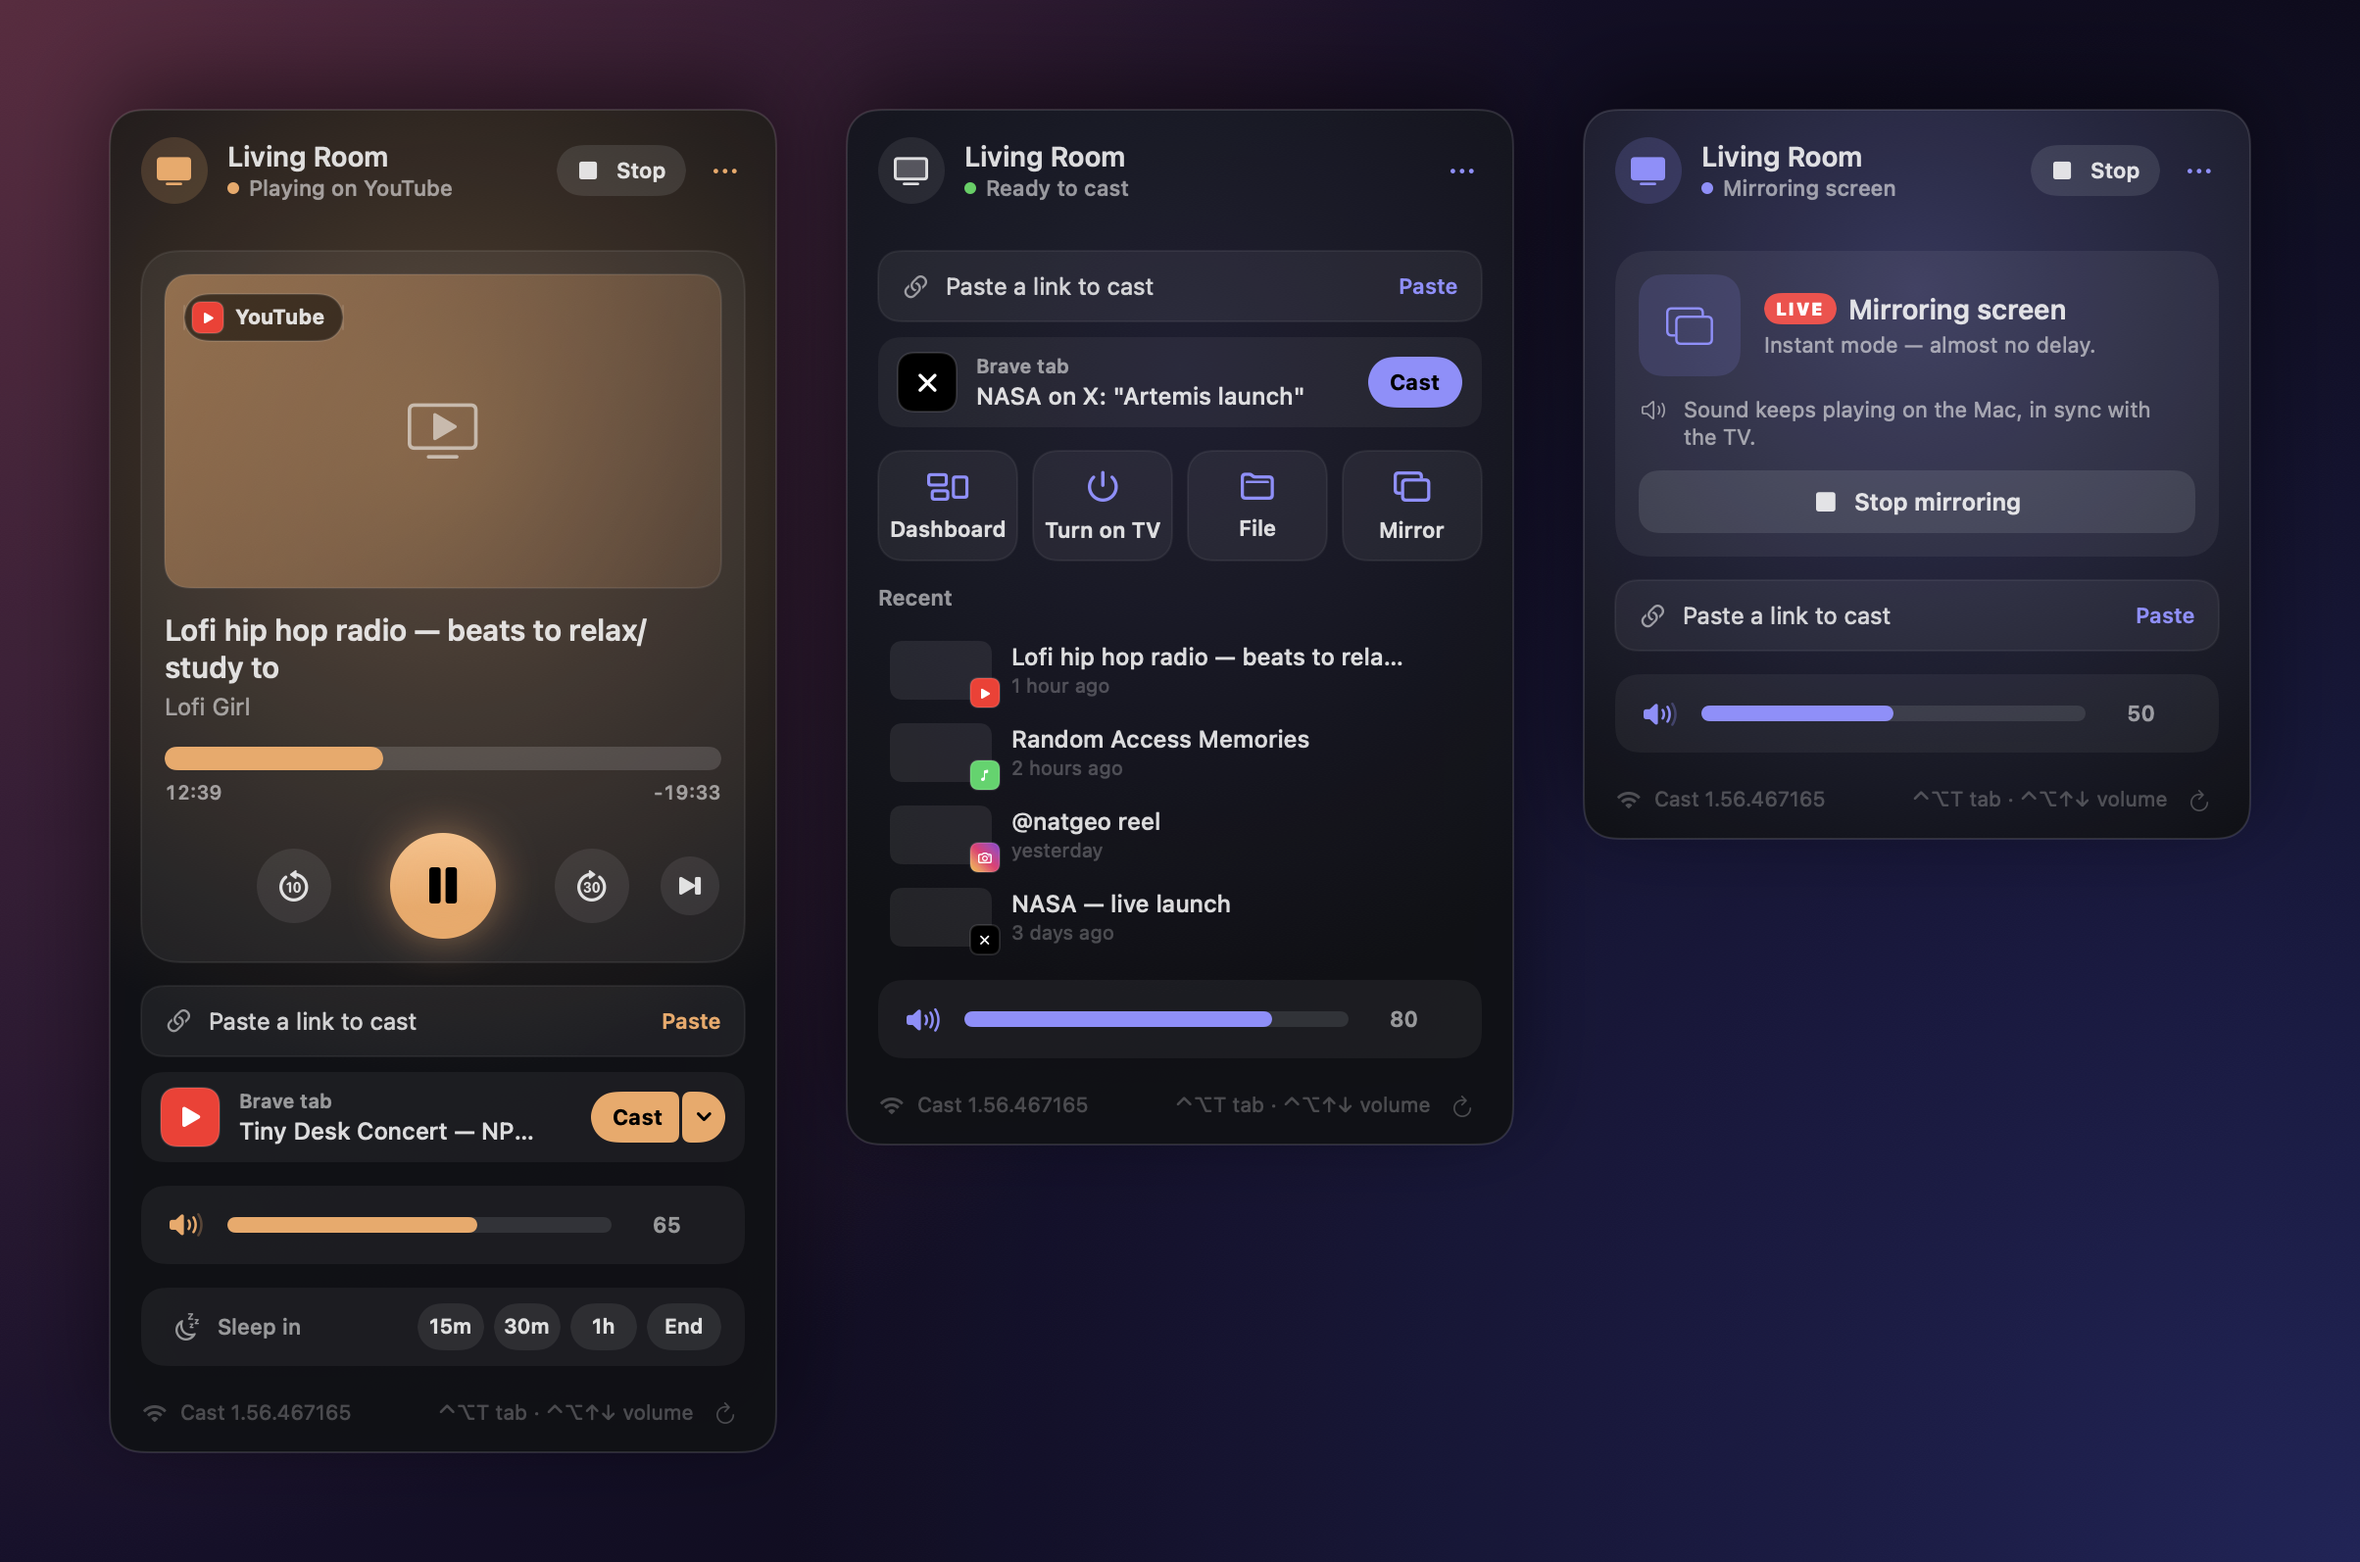
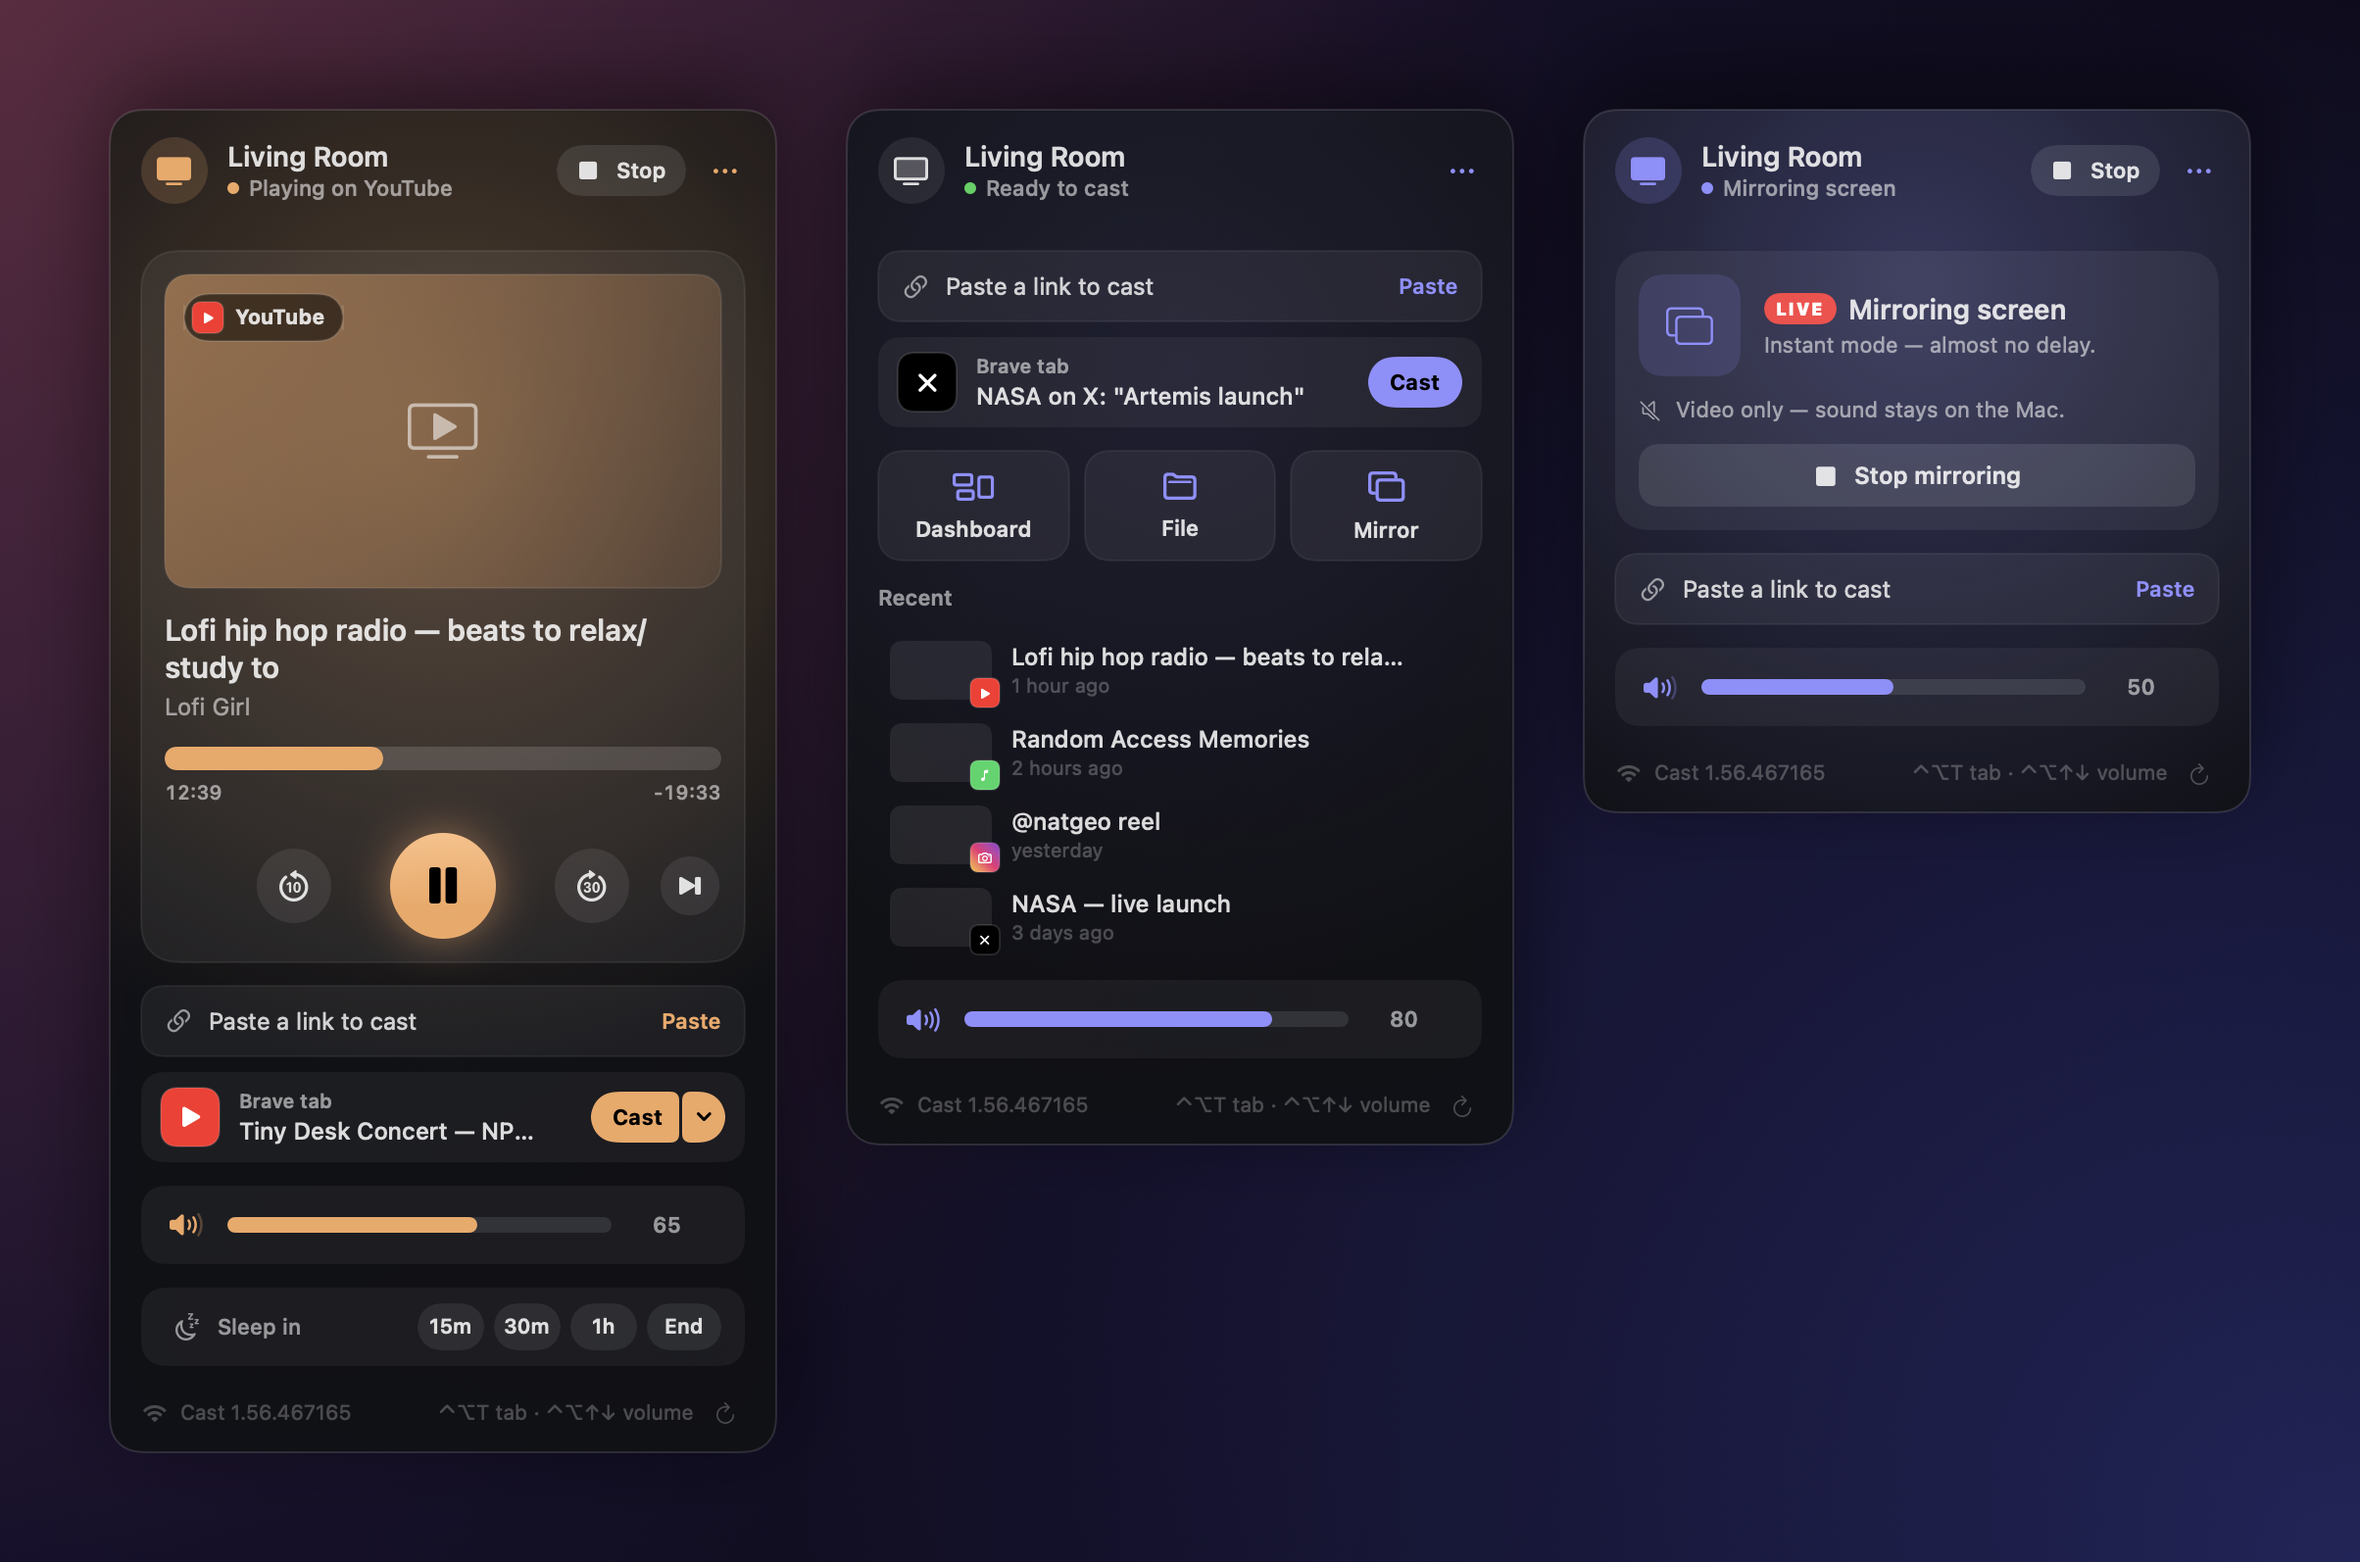
Treat a TV-powered Chromecast going dark as normal
Many Chromecasts are powered by the TV's USB port and turn off with it, so
'Turn on TV' can't work there. It moves from the home tiles to the device menu
with a note that it needs wall power and HDMI-CEC, and the long-offline
message now explains this instead of reporting a network error.

diff --git a/Sources/CastMenubar/Views.swift b/Sources/CastMenubar/Views.swift
@@ -236,6 +236,8 @@ private struct Header: View {
                 Toggle("Som na TV ao espelhar", isOn: $store.mirrorAudio)
                 Toggle("Silenciar o Mac ao espelhar", isOn: $store.muteMacWhileMirroring)
                 Divider()
+                Button("Ligar TV (HDMI-CEC)") { store.turnOnTV() }
+                    .help(String(localized: "Só funciona com o Chromecast na tomada e a TV com HDMI-CEC"))
                 Button("Renomear…") { newName = store.displayName; renaming = true }
                 Button("Reiniciar Chromecast…") { confirmReboot = true }
                 Button("Reconectar") { store.reconnectNow() }
@@ -655,8 +657,6 @@ private struct IdleHome: View {
             HStack(spacing: 8) {
                 Tile(symbol: "rectangle.3.group", title: String(localized: "Painel"), tint: tint, action: store.startDashboard)
                     .help(String(localized: "Relógio e clima na TV"))
-                Tile(symbol: "power", title: String(localized: "Ligar TV"), tint: tint, action: store.turnOnTV)
-                    .help(String(localized: "Liga a TV e troca a entrada (HDMI-CEC)"))
                 Tile(symbol: "folder", title: String(localized: "Arquivo"), tint: tint, action: pickFile)
                     .help(String(localized: "Vídeo, música ou foto do Mac"))
                 Tile(symbol: "rectangle.on.rectangle", title: String(localized: "Espelhar"), tint: tint) {

diff --git a/Sources/CastMenubar/CastStore.swift b/Sources/CastMenubar/CastStore.swift
@@ -325,7 +325,8 @@ final class CastStore: ObservableObject {
         guard device != nil else { return }
         reconnecting = true
         if attempt >= 4 {
-            error = String(localized: "Não consegui falar com o Chromecast. Ele está ligado e na mesma rede?")
+            // o caso mais comum: o Chromecast é alimentado pela USB da TV e desligou junto com ela
+            error = String(localized: "O Chromecast não está respondendo — se ele está na USB da TV, desliga junto com ela. Ligue a TV e o app reconecta sozinho.")
         }
         guard reconnectTask == nil else { return }       // não empilha tentativas
         let delay = immediately ? 0.2 : min(pow(2, Double(attempt)), 15) * Double.random(in: 0.8...1.2)

diff --git a/README.md b/README.md
@@ -28,7 +28,7 @@ Built for (and tested on) the **1st-generation Chromecast**, which still works f
 - **Now Playing and media keys:** ⏯ ⏮ ⏭ control the TV, and the macOS Now Playing widget shows artwork and progress. **⌃⌥↑ / ⌃⌥↓** change the TV volume with an on-screen HUD.
 - **Sleep timer:** 15m / 30m / 1h or *end of episode*. In the last minute the volume fades out, then casting stops and the volume goes back to where it was.
 - **TV dashboard:** a full-screen clock, date and weather when nothing is playing.
-- **Turn on TV:** wakes the TV and switches input over HDMI-CEC.
+- **Turn on TV** (menu): wakes the TV and switches input over HDMI-CEC. Needs the Chromecast on wall power (not the TV's USB port) and a TV with CEC.
 - **Device menu:** rename or restart the Chromecast; firmware and Wi-Fi signal in the footer.
 - **Stays connected:** heartbeat watchdog, exponential backoff, reconnect on wake and network changes, and a fallback to the last known IP when Bonjour misses the device.
 - **English and Portuguese**, following your system language.

diff --git a/README.pt-BR.md b/README.pt-BR.md
@@ -28,7 +28,7 @@ Feito para o **Chromecast de 1ª geração** (e testado nele), que continua func
 - **Tocando Agora e teclas de mídia:** ⏯ ⏮ ⏭ controlam a TV, e o widget do macOS mostra capa e progresso. **⌃⌥↑ / ⌃⌥↓** mudam o volume da TV, com aviso na tela.
 - **Timer de sono:** 15m / 30m / 1h ou *fim do episódio*. No último minuto o volume abaixa aos poucos; depois a transmissão para e o volume volta ao que era.
 - **Painel na TV:** relógio, data e clima em tela cheia quando nada está tocando.
-- **Ligar TV:** liga a TV e troca a entrada via HDMI-CEC.
+- **Ligar TV** (menu): liga a TV e troca a entrada via HDMI-CEC. Precisa do Chromecast na tomada (não na USB da TV) e de uma TV com CEC.
 - **Menu do aparelho:** renomear ou reiniciar o Chromecast; firmware e sinal do Wi-Fi no rodapé.
 - **Conexão que se recupera sozinha:** vigia de heartbeat, novas tentativas espaçadas, reconexão quando o Mac acorda ou a rede muda, e o último IP como plano B quando o Bonjour falha.
 - **Português e inglês**, conforme o idioma do sistema.
